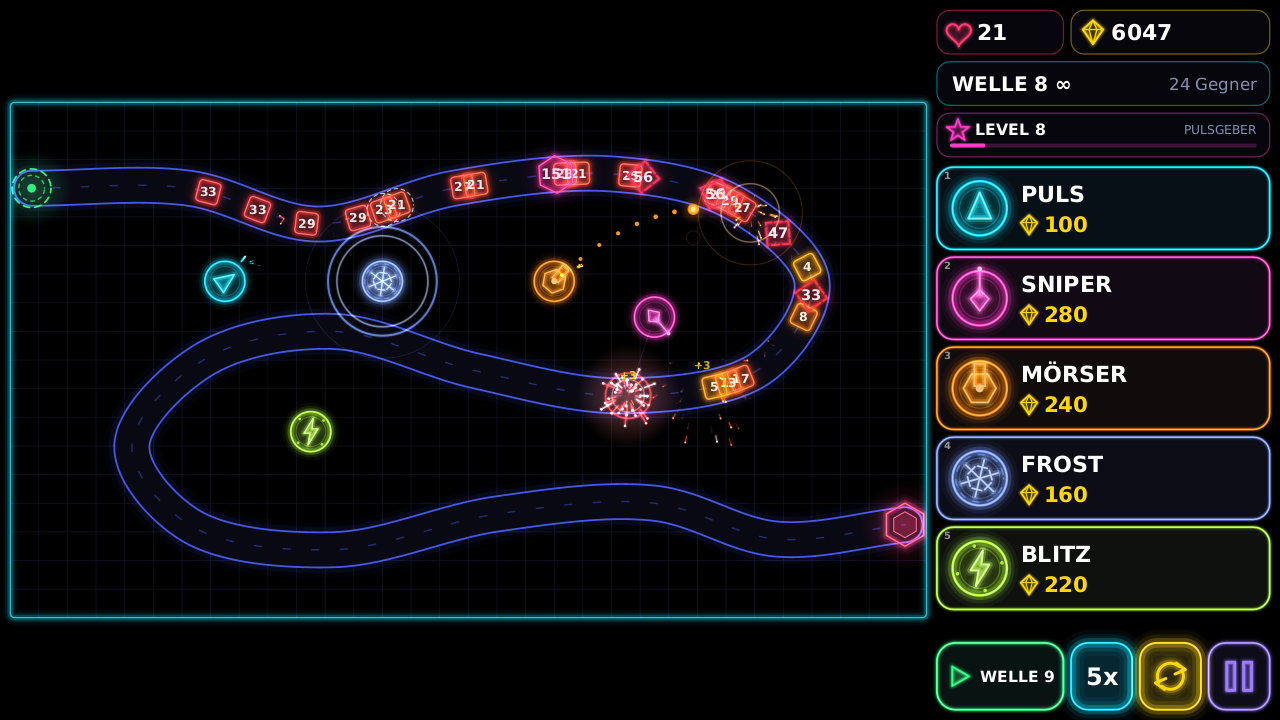
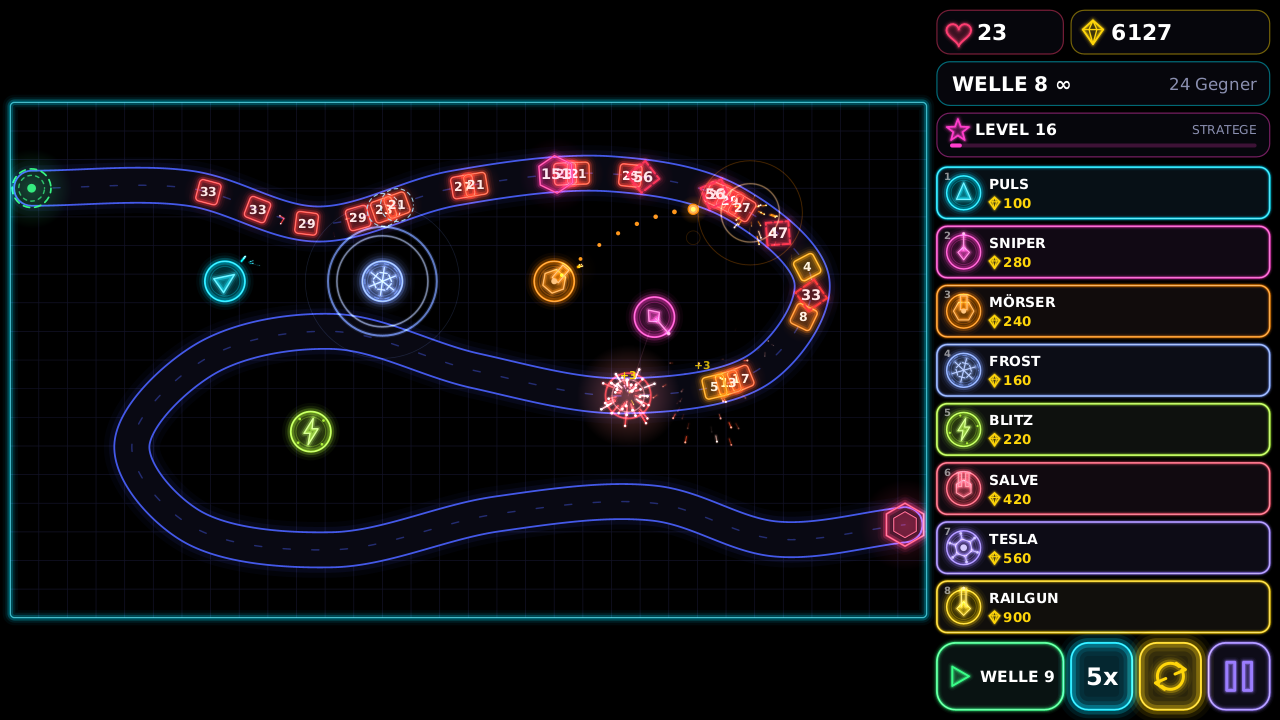
Drei neue große Türme: SALVE, TESLA, RAILGUN (teurer und stärker als alle bisherigen)
- SALVE 420 (Spielerlevel 10): Schnellfeuer, Geschosse durchschlagen 3 Gegner
- TESLA 560 (Level 13): Blitzkette über 8 Ziele, große Sprünge, wenig Verlust
- RAILGUN 900 (Level 16): Strahl trifft alle Gegner auf der Linie
- Shop-Layouts für 8 Türme (Seitenleiste, Tablet hoch 2 Reihen, Handy quer Spalte, Handy hoch Reihe)
- Symbole, Effekte, Tests (Kosten/Stärke, Durchschlag, Kette, Strahl), Doku, Screenshots

Claude-Session: https://claude.ai/code/session_01KZXZywoB6J5WESCdtRxJgn

diff --git a/core/src/main/java/neontd/sim/World.java b/core/src/main/java/neontd/sim/World.java
@@ -79,8 +79,8 @@ public final class World {
     private int firstOpen;
     private int clearedCount;
     private final ArrayList<Emitter> emitters = new ArrayList<>();
-    private final double[] chainPts = new double[2 * (TowerType.ARC_CHAINS + 2)];
-    private final int[] chainIds = new int[TowerType.ARC_CHAINS + 1];
+    private final double[] chainPts = new double[2 * (TowerType.MAX_CHAINS + 2)];
+    private final int[] chainIds = new int[TowerType.MAX_CHAINS + 1];
     private int nextId = 1;
     private int activeWaves;
     private double autoTimer;
@@ -639,7 +639,14 @@ public final class World {
                 fireFrost(t);
                 break;
             case ARC:
+            case TESLA:
                 fireArc(t, target);
+                break;
+            case SALVE:
+                firePulse(t, target);
+                break;
+            case RAILGUN:
+                fireRail(t, angle);
                 break;
             default:
                 break;
@@ -677,6 +684,7 @@ public final class World {
         p.vy = Math.sin(angle) * TowerType.PULSE_BULLET_SPEED;
         p.radius = BULLET_RADIUS;
         p.damage = t.damage;
+        p.pierce = t.type == TowerType.SALVE ? TowerType.SALVE_PIERCE : 1;
         p.life = t.range * 1.6 / TowerType.PULSE_BULLET_SPEED;
         projectiles.add(p);
         listener.onProjectileSpawned(p);
@@ -723,23 +731,49 @@ public final class World {
     private void fireArc(Tower t, Enemy first) {
         chainPts[0] = t.x;
         chainPts[1] = t.y;
+        boolean tesla = t.type == TowerType.TESLA;
+        int chains = tesla ? TowerType.TESLA_CHAINS : TowerType.ARC_CHAINS;
+        double radius = tesla ? TowerType.TESLA_CHAIN_RADIUS : TowerType.ARC_CHAIN_RADIUS;
+        double falloff = tesla ? TowerType.TESLA_FALLOFF : TowerType.ARC_FALLOFF;
         double dmg = t.damage;
         int hits = 0;
         Enemy cur = first;
-        while (cur != null && hits < TowerType.ARC_CHAINS) {
+        while (cur != null && hits < chains) {
             chainIds[hits] = cur.id;
             hits++;
             chainPts[hits * 2] = cur.x;
             chainPts[hits * 2 + 1] = cur.y;
-            damage(cur, Math.max(1, Mathx.roundToInt(dmg)));
-            dmg *= TowerType.ARC_FALLOFF;
-            cur = hits < TowerType.ARC_CHAINS ? nearestChainTarget(cur, hits) : null;
+            damage(cur, dmg >= Tower.MAX_DAMAGE ? Tower.MAX_DAMAGE : Math.max(1, Mathx.roundToInt(dmg)));
+            dmg *= falloff;
+            cur = hits < chains ? nearestChainTarget(cur, hits, radius) : null;
         }
         listener.onLightning(chainPts, hits + 1, t.type.color);
     }
 
-    private Enemy nearestChainTarget(Enemy from, int usedCount) {
-        int cnt = hash.query(from.x, from.y, TowerType.ARC_CHAIN_RADIUS + MAX_ENEMY_RADIUS, query);
+    /** Railgun: Ein Strahl bis ans Ende der Reichweite trifft <b>alle</b> Gegner auf der Linie, ohne Verlust. */
+    private void fireRail(Tower t, double angle) {
+        double cos = Math.cos(angle);
+        double sin = Math.sin(angle);
+        double sx = t.x + cos * MUZZLE;
+        double sy = t.y + sin * MUZZLE;
+        double ex = t.x + cos * t.range;
+        double ey = t.y + sin * t.range;
+        int cnt = hash.query((sx + ex) / 2, (sy + ey) / 2, t.range / 2 + MAX_ENEMY_RADIUS, query);
+        for (int k = 0; k < cnt; k++) {
+            Enemy e = enemies.get(query[k]);
+            if (!e.targetable()) {
+                continue;
+            }
+            double reach = e.radius + TowerType.RAIL_HALF_WIDTH;
+            if (Collision.pointSegmentDistSq(e.x, e.y, sx, sy, ex, ey) <= reach * reach) {
+                damage(e, t.damage);
+            }
+        }
+        listener.onBeam(sx, sy, ex, ey, t.type.color);
+    }
+
+    private Enemy nearestChainTarget(Enemy from, int usedCount, double chainRadius) {
+        int cnt = hash.query(from.x, from.y, chainRadius + MAX_ENEMY_RADIUS, query);
         Enemy best = null;
         double bestD = Double.MAX_VALUE;
         for (int k = 0; k < cnt; k++) {
@@ -748,7 +782,7 @@ public final class World {
                 continue;
             }
             double d2 = Mathx.distSq(from.x, from.y, e.x, e.y);
-            double reach = TowerType.ARC_CHAIN_RADIUS + e.radius;
+            double reach = chainRadius + e.radius;
             if (d2 > reach * reach) {
                 continue;
             }

diff --git a/core/src/main/java/neontd/render/TowerArt.java b/core/src/main/java/neontd/render/TowerArt.java
@@ -134,6 +134,60 @@ public final class TowerArt {
                 g.strokeDashed(1.6, Colors.withAlpha(c, 0.6), 6, 9, time * 14);
                 break;
             }
+            case SALVE: {
+                // Zwei kurze Läufe nebeneinander, dahinter ein Sechseck
+                g.rotate(aim);
+                double k = recoil * r * 0.16;
+                g.beginPath();
+                g.ngon(0, 0, r * 0.5, 6, 0);
+                g.fill(Colors.withAlpha(c, 0.3));
+                Neon.stroke(g, 2.2, Colors.lighten(c, 0.2), 6);
+                for (int s = -1; s <= 1; s += 2) {
+                    g.beginPath();
+                    g.rect(r * 0.12 - k, s * r * 0.22 - r * 0.1, r * 0.8, r * 0.2);
+                    g.fill(Colors.withAlpha(c, 0.45));
+                    Neon.stroke(g, 2.0, Colors.lighten(c, 0.3), 5);
+                }
+                break;
+            }
+            case TESLA: {
+                // Spule: drehender Ring mit Zacken und leuchtendem Kern
+                double spin = time * 0.9;
+                g.beginPath();
+                g.ngon(0, 0, r * 0.52, 6, spin);
+                g.fill(Colors.withAlpha(c, 0.25));
+                Neon.stroke(g, 2.2, Colors.lighten(c, 0.25), 6);
+                g.beginPath();
+                for (int i = 0; i < 6; i++) {
+                    double a = spin + Math.PI * i / 3;
+                    g.moveTo(Math.cos(a) * r * 0.52, Math.sin(a) * r * 0.52);
+                    g.lineTo(Math.cos(a) * r * 0.86, Math.sin(a) * r * 0.86);
+                }
+                Neon.stroke(g, 2.0, Colors.lighten(c, 0.3), 5);
+                for (int i = 0; i < 6; i++) {
+                    double a = spin + Math.PI * i / 3;
+                    g.fillCircle(Math.cos(a) * r * 0.86, Math.sin(a) * r * 0.86, 2.2 + recoil * 1.5, Colors.lighten(c, 0.6));
+                }
+                g.fillCircle(0, 0, r * (0.2 + 0.1 * recoil), Colors.lighten(c, 0.6));
+                break;
+            }
+            case RAILGUN: {
+                // Zwei lange Schienen mit Raute als Kammer
+                g.rotate(aim);
+                double k = recoil * r * 0.3;
+                g.beginPath();
+                g.moveTo(-r * 0.5, 0);
+                g.lineTo(-r * 0.1, -r * 0.4);
+                g.lineTo(r * 0.3, 0);
+                g.lineTo(-r * 0.1, r * 0.4);
+                g.closePath();
+                g.fill(Colors.withAlpha(c, 0.3));
+                Neon.stroke(g, 2.2, Colors.lighten(c, 0.2), 6);
+                Neon.line(g, r * 0.0 - k, -r * 0.14, r * 1.1 - k, -r * 0.14, 2.4, Colors.lighten(c, 0.3), 6);
+                Neon.line(g, r * 0.0 - k, r * 0.14, r * 1.1 - k, r * 0.14, 2.4, Colors.lighten(c, 0.3), 6);
+                g.fillCircle(r * 1.1 - k, 0, 2.6, Colors.lighten(c, 0.7));
+                break;
+            }
             case ARC: {
                 double pulse = 1 + recoil * 0.25;
                 g.rotate(uprightAngle);

diff --git a/core/src/test/java/neontd/sim/SimTest.java b/core/src/test/java/neontd/sim/SimTest.java
@@ -201,6 +201,67 @@ class SimTest {
     }
 
     @Test
+    void bigTowersCostMoreAndAreStrongerThanTheClassics() {
+        TowerType[] big = {TowerType.SALVE, TowerType.TESLA, TowerType.RAILGUN};
+        int maxClassic = 0;
+        double bestDps = 0;
+        for (TowerType t : new TowerType[] {TowerType.PULSE, TowerType.SNIPER, TowerType.MORTAR, TowerType.FROST, TowerType.ARC}) {
+            maxClassic = Math.max(maxClassic, t.cost);
+            bestDps = Math.max(bestDps, t.damage / t.interval);
+        }
+        for (TowerType t : big) {
+            assertTrue(t.cost > maxClassic, t + " ist teurer als jeder Klassiker");
+            assertTrue(t.damage / t.interval > bestDps, t + " macht mehr Schaden pro Sekunde");
+        }
+    }
+
+    @Test
+    void salveBulletsPierceSeveralEnemies() {
+        Counter c = new Counter();
+        WaveDef wave = new WaveDef().add(EnemyType.TANK, 8, 0.3, 0, 100000).bonus(0);
+        World w = worldWithWaves(c, wave);
+        double[] spot = spotNear(w, 600, 70);
+        Tower t = w.placeTower(TowerType.SALVE, spot[0], spot[1]);
+        w.money = 100000;
+        w.startNextWave();
+        steps(w, 60 * 30);
+        assertTrue(c.bullets > 20, "bullets=" + c.bullets);
+        // Durchschlag: deutlich mehr Treffer als Geschosse (jeder Schuss trifft bis zu 3 dicht stehende Gegner)
+        assertTrue(c.damaged > c.bullets, "damaged=" + c.damaged + " bullets=" + c.bullets);
+        assertEquals(3, TowerType.SALVE_PIERCE);
+        assertNotNull(t);
+    }
+
+    @Test
+    void teslaChainsFurtherThanArc() {
+        Counter c = new Counter();
+        WaveDef wave = new WaveDef().add(EnemyType.TANK, 12, 0.3, 0, 100000).bonus(0);
+        World w = worldWithWaves(c, wave);
+        double[] spot = spotNear(w, 600, 70);
+        w.money = 100000;
+        w.placeTower(TowerType.TESLA, spot[0], spot[1]);
+        w.startNextWave();
+        steps(w, 60 * 40);
+        assertTrue(c.lightnings > 3);
+        assertTrue(c.maxChain > TowerType.ARC_CHAINS, "maxChain=" + c.maxChain);
+    }
+
+    @Test
+    void railgunHitsEveryEnemyOnTheLine() {
+        Counter c = new Counter();
+        WaveDef wave = new WaveDef().add(EnemyType.TANK, 10, 0.25, 0, 100000).bonus(0);
+        World w = worldWithWaves(c, wave);
+        double[] spot = spotNear(w, 600, 70);
+        w.money = 100000;
+        w.placeTower(TowerType.RAILGUN, spot[0], spot[1]);
+        w.startNextWave();
+        steps(w, 60 * 40);
+        assertTrue(c.beams > 4, "beams=" + c.beams);
+        assertEquals(0, c.bullets);
+        assertTrue(c.damaged > c.beams * 1.5, "Strahl trifft mehrere: damaged=" + c.damaged + " beams=" + c.beams);
+    }
+
+    @Test
     void splitEnemiesBreakIntoMinis() {
         Counter c = new Counter();
         WaveDef wave = new WaveDef().add(EnemyType.SPLIT, 1, 1.0, 0, 30).bonus(0);

diff --git a/core/src/main/java/neontd/sim/TowerType.java b/core/src/main/java/neontd/sim/TowerType.java
@@ -9,7 +9,11 @@ public enum TowerType {
     SNIPER("SNIPER", "Sehr weit, sehr stark", 0xFF3DCB, 280, 330, 34, 1.90, 8),
     MORTAR("MÖRSER", "Flächenschaden", 0xFF8A00, 240, 235, 14, 1.60, 4),
     FROST("FROST", "Verlangsamt alle in Reichweite", 0x7DA2FF, 160, 108, 2, 1.40, 2),
-    ARC("BLITZ", "Springt zwischen Zielen", 0xB6FF3B, 220, 142, 5, 0.90, 6);
+    ARC("BLITZ", "Springt zwischen Zielen", 0xB6FF3B, 220, 142, 5, 0.90, 6),
+    // Die drei großen Türme: teurer als alle anderen, dafür deutlich stärker.
+    SALVE("SALVE", "Schnellfeuer, durchschlägt Gegner", 0xFF5470, 420, 190, 8, 0.26, 10),
+    TESLA("TESLA", "Lange Blitzketten", 0x9B7DFF, 560, 175, 16, 0.85, 13),
+    RAILGUN("RAILGUN", "Strahl durch die ganze Reihe", 0xFFD60A, 900, 400, 140, 2.40, 16);
 
     public final String label;
     public final String tagline;
@@ -38,6 +42,16 @@ public enum TowerType {
     public static final int ARC_CHAINS = 4;
     public static final double ARC_CHAIN_RADIUS = 120;
     public static final double ARC_FALLOFF = 0.75;
+    /** Tesla: längere Kette, größere Sprünge, kaum Verlust pro Sprung. */
+    public static final int TESLA_CHAINS = 8;
+    public static final double TESLA_CHAIN_RADIUS = 150;
+    public static final double TESLA_FALLOFF = 0.88;
+    /** Größte Kettenlänge aller Türme (Puffergröße). */
+    public static final int MAX_CHAINS = 8;
+    /** Salve: Geschosse durchschlagen so viele Gegner. */
+    public static final int SALVE_PIERCE = 3;
+    /** Railgun: halbe Breite des Strahls (zusätzlich zum Gegnerradius). */
+    public static final double RAIL_HALF_WIDTH = 7;
 
     TowerType(String label, String tagline, int color, int cost, double range, int damage, double interval,
               int unlockLevel) {

diff --git a/core/src/main/java/neontd/scene/GameLayout.java b/core/src/main/java/neontd/scene/GameLayout.java
@@ -50,7 +50,7 @@ final class GameLayout {
 
     /** Ab dieser kleinsten Fensterkante (logische Pixel) gilt das Fenster als Handy. */
     static final double COMPACT_BELOW = 480;
-    static final int TOWERS = 5;
+    static final int TOWERS = neontd.sim.TowerType.values().length;
 
     Mode mode = Mode.DOCKED;
     /** Karte um 90° im Uhrzeigersinn gedreht (Welt-x läuft nach unten). */
@@ -190,11 +190,14 @@ final class GameLayout {
         double panelY = mapAvY + mapAvH + m;
         double panelH = ctrlY - m - panelY;
         controls(hx, ctrlY, hw, ctrlH, 6 * u);
-        double shopH = Math.min(panelH, 100 * u);
+        double shopH = Math.min(panelH, 150 * u);
         double gap = 6 * u;
-        double cw = (hw - gap * (TOWERS - 1)) / TOWERS;
+        // Zwei Reihen à vier Kacheln
+        int perRow = (TOWERS + 1) / 2;
+        double cw = (hw - gap * (perRow - 1)) / perRow;
+        double rowH = (shopH - gap) / 2;
         for (int i = 0; i < TOWERS; i++) {
-            tiles[i].set(hx + i * (cw + gap), panelY, cw, shopH);
+            tiles[i].set(hx + (i % perRow) * (cw + gap), panelY + (i / perRow) * (rowH + gap), cw, rowH);
         }
         double upY = panelY + shopH + m;
         panel.set(hx, upY, hw, panelY + panelH - upY);

diff --git a/core/src/main/java/neontd/render/GameFx.java b/core/src/main/java/neontd/render/GameFx.java
@@ -91,6 +91,14 @@ public class GameFx implements SimListener {
             fx.flash(mx, my, 20, c, 0.14);
         } else if (t.type == TowerType.SNIPER) {
             fx.flash(mx, my, 24, c, 0.16);
+        } else if (t.type == TowerType.SALVE) {
+            fx.sparks(mx, my, angle, 0.3, 2, 180, c);
+        } else if (t.type == TowerType.TESLA) {
+            fx.ring(t.x, t.y, 40, c, 0.25);
+        } else if (t.type == TowerType.RAILGUN) {
+            fx.flash(mx, my, 40, c, 0.22);
+            fx.sparks(mx, my, angle, 0.25, 8, 260, c);
+            fx.shake = Math.max(fx.shake, 2);
         }
     }
 

diff --git a/core/src/main/java/neontd/scene/GameScene.java b/core/src/main/java/neontd/scene/GameScene.java
@@ -1088,7 +1088,7 @@ public final class GameScene extends Scene {
             double ir = Math.min(w * 0.34, h * 0.27);
             TowerArt.drawIcon(g, type, 0, -h * 0.18, ir, app.time);
             if (unlocked) {
-                double cs = Math.min(w * 0.22, h * 0.19);
+                double cs = Math.max(9, Math.min(w * 0.22, h * 0.19));
                 double tw = g.textWidth(cost, cs, true);
                 double gem = Math.min(w * 0.09, h * 0.09);
                 double x0 = -(tw + gem * 2.4) / 2;

diff --git a/README.md b/README.md
@@ -8,12 +8,12 @@ BBTAN, mit dem Ablauf von Bloons TD. Die gesamte Spiellogik ist in **Java** gesc
 - als **Desktop-Anwendung** (Windows, macOS, Linux).
 
 <p align="center">
-  <img src="docs/screenshots/game.png" alt="Gefecht: fünf Turmklassen, Gegner mit HP-Zahl, Feuerwerk" width="860">
+  <img src="docs/screenshots/game.png" alt="Gefecht: acht Turmklassen, Gegner mit HP-Zahl, Feuerwerk" width="860">
 </p>
 
 ## Was drin ist
 
-- **5 Turmklassen**, jede mit eigener Rolle und eigenem Neon-Symbol (siehe unten).
+- **8 Turmklassen** (5 Klassiker und 3 große, teurere und stärkere), jede mit eigener Rolle und eigenem Neon-Symbol (siehe unten).
 - **3 Upgrade-Kategorien pro Turm** – *Reichweite*, *Schaden* und *Tempo* – mit je 5 Stufen.
 - **Wellen wie bei Bloons TD**: Welle manuell starten (auch früher!), Tempo 1×/2×/3×, automatischer Wellenstart, Pause.
 - **Gegner tragen ihre Lebenspunkte als Zahl auf sich**. Die Farbe folgt den aktuellen HP (gelb → orange → rot → pink
@@ -122,11 +122,11 @@ Das ZIP enthält `bin/neon-td` (bzw. `neon-td.bat` unter Windows); eine Java-Lau
 | **Wellen** | `START` / `Leertaste`; `1×/2×/3×` (im Endlosmodus bis `5×`) = `F`; Schleife = Auto-Start; Pause = `P` / `Esc` | Schaltflächen in der Leiste (quer rechts, hoch unten) |
 | **Leiste ein-/ausklappen** | – (am Laptop immer sichtbar) | Pfeil-Knopf in der Leiste |
 
-Weitere Tasten: `1`–`5` Turm wählen · `Q` `W` `E` Upgrade Reichweite/Schaden/Tempo · `Tab` Zielwahl · `X`/`Entf`
+Weitere Tasten: `1`–`8` Turm wählen · `Q` `W` `E` Upgrade Reichweite/Schaden/Tempo · `Tab` Zielwahl · `X`/`Entf`
 verkaufen · Rechtsklick bricht ab. Gesperrte Türme (Schloss mit „LV n“) lassen sich erst ab dem genannten Spielerlevel
 bauen.
 
-## Die fünf Türme
+## Die acht Türme
 
 | Turm | Preis | Reichweite | Schaden | Tempo | Rolle |
 |---|---:|---:|---:|---:|---|
@@ -135,6 +135,9 @@ bauen.
 | **MÖRSER** (orange) | 240 | 235 | 14 | 0,6/s | Granate mit Flächenschaden (zum Rand hin schwächer) |
 | **FROST** (blau) | 160 | 108 | 2 | 0,7/s | Nova verlangsamt alle Gegner in Reichweite (stärker mit Schadensstufen) |
 | **BLITZ** (grün) | 220 | 142 | 5 | 1,1/s | Springt auf bis zu 4 Ziele, jeder Sprung 25 % schwächer |
+| **SALVE** (rosa) | 420 | 190 | 8 | 3,8/s | Schnellfeuer; jede Kugel durchschlägt bis zu 3 Gegner |
+| **TESLA** (violett) | 560 | 175 | 16 | 1,2/s | Blitzkette über bis zu 8 Ziele mit großen Sprüngen, nur 12 % Verlust je Sprung |
+| **RAILGUN** (gold) | 900 | 400 | 140 | 0,4/s | Strahl bis ans Ende der Reichweite: trifft **alle** Gegner auf der Linie, ohne Verlust |
 
 Jede der drei Kategorien hat 5 Stufen: *Reichweite* bis ×1,6 · *Schaden* bis ×7 · *Tempo* bis ×3,1. Die drei farbigen
 Bögen um den Turm zeigen den Ausbau (blau = Reichweite, rot = Schaden, gelb = Tempo).
@@ -165,6 +168,9 @@ ersten Sieg über ein Level (+300 XP, danach +100). Das Profil siehst du über d
 | 4 | **MÖRSER** |
 | 6 | **BLITZ** |
 | 8 | **SNIPER** |
+| 10 | **SALVE** |
+| 13 | **TESLA** |
+| 16 | **RAILGUN** |
 
 Dazu gibt es dauerhafte Belohnungen: **+10 Startgeld je Level** (bis +300) und **+1 Start-Leben je 5 Level** (bis +5).
 Titel wie *Funke*, *Wächter*, *Architekt* oder *Titanbezwinger* zeigen den Rang. Als Maßstab: Der erste vollständige

diff --git a/docs/ENTWICKLUNG.md b/docs/ENTWICKLUNG.md
@@ -125,7 +125,10 @@ deckend“ gilt; `alpha(a)` *multipliziert* und gilt bis zum nächsten `restore(
 1. Eintrag in `sim.TowerType` (Name, Beschreibung, Farbe, Preis, Reichweite, Schaden, Intervall).
 2. Verhalten in `World.fire` (neue `fireXyz`-Methode; Treffer immer über `damage(...)`, Effekte über den Listener).
 3. Symbol in `render.TowerArt.symbol`, Effekte in `render.GameFx` (optional).
-4. Der Shop, die Hotkeys (`1`–`9`) und das Upgrade-Panel passen sich der Anzahl der `TowerType`-Einträge an.
+4. Der Shop, die Hotkeys (`1`–`9`) und das Upgrade-Panel passen sich der Anzahl der `TowerType`-Einträge an (`GameLayout.TOWERS`):
+   Seitenleiste eine Spalte, Tablet hoch zwei Reihen, Handy quer eine Spalte, Handy hoch eine Reihe. Besonderheiten je Turm
+   (Durchschlag, Kettenlänge, Strahl) stehen als Konstanten in `TowerType` und in den `fire…`-Methoden von `World`
+   (Beispiele: `SALVE`, `TESLA`, `RAILGUN`).
 
 **Neuer Gegner:** Eintrag in `sim.EnemyType` (Form aus `Shape`, Radius, Tempo, HP-Faktor, Belohnung, Lecks, Splitter),
 bei neuer Form die Zeichnung in `render.EnemyArt`; Auftritt in `WaveFactory` bzw. `Levels`.
